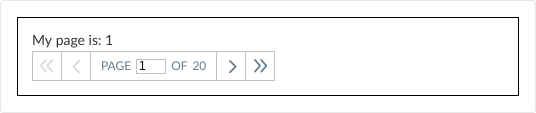
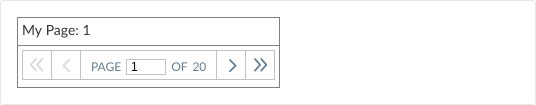
Feat/pagination updates (#145)
feat(PaginationControl): fixed API to submit page number on blur/enter rather than onChange per UX spec. Also cleaned up some other aspects, detailed below.

- updated CSS and markup to no longer use flexbox, making this component more flexible within a pagination tools set.

- refactored disabling of control by allowing for dynamic creation of atributes via the spread syntax. Before we were setting a disabled class, the disabled attribute, and tabIndex. Now one prop handles it all.

- simplified error handling

- handle unknown total pages. UI displays ellipses

Changed region(s): [[0.0299, 0.2286, 0.5373, 0.7714], [0.0299, 0.8286, 0.9851, 0.8571], [0.0299, 0.1429, 0.9851, 0.1714]]

diff --git a/src/components/native/PaginationControl/PaginationControl.jsx b/src/components/native/PaginationControl/PaginationControl.jsx
@@ -1,17 +1,18 @@
 import PropTypes from 'prop-types'
 import React from 'react'
-import Flexbox from 'flexbox-react'
 import '../../../styles/components/pagination-control.css'
 import isNil from 'lodash/isNil'
+import isNumber from 'lodash/isNumber'
 import invariant from 'invariant'
 
 const NAV_VERB_TO_INT_MAP = { prev: -1, next: 1 }
+const DISABLED_ATTRIBUTES = { tabIndex: -1, disabled: true }
+const ENABLED_ATTRIBUTE = { tabIndex: 0 }
 
 export default class PaginationControl extends React.PureComponent {
   constructor (props) {
     super(props)
-    invariant(props.onBlur, '`onBlur` prop missing')
-    invariant(props.onChange, '`onChange` prop missing')
+    invariant(props.onPageChange, '`onPageChange` prop missing')
     invariant(props.page, '`page` prop missing')
     this.gotoFirstPage = this.gotoFirstPage.bind(this)
     this.gotoPrevPage = this.gotoPrevPage.bind(this)
@@ -22,8 +23,7 @@ export default class PaginationControl extends React.PureComponent {
     this.isValidPage = this.isValidPage.bind(this)
     this.isDisabled = this.isDisabled.bind(this)
     this.handleInputKeyDown = this.handleInputKeyDown.bind(this)
-    this.onChange = this.onChange.bind(this)
-    this.onBlur = this.onBlur.bind(this)
+    this.handleUserInput = this.handleUserInput.bind(this)
   }
 
   gotoFirstPage () {
@@ -46,9 +46,15 @@ export default class PaginationControl extends React.PureComponent {
   }
 
   gotoPage (page) {
-    if (this.isValidPage(page)) {
-      this.props.onChange(page)
+    let payload = {page: page}
+    if (!isNumber(page)) {
+      payload.error = 'Invalid Number'
+    } else if (!this.isPageWithinLowerBound(page)) {
+      payload.error = 'Number less than lower bound'
+    } else if (!this.isPageWithinUpperBound(page)) {
+      payload.error = 'Number greater than upper bound'
     }
+    this.props.onPageChange(payload)
   }
 
   isPageWithinLowerBound (page) {
@@ -59,6 +65,7 @@ export default class PaginationControl extends React.PureComponent {
   isPageWithinUpperBound (page) {
     const { totalPages } = this.props
     if (isNil(totalPages)) return true
+
     return page <= totalPages
   }
 
@@ -67,69 +74,72 @@ export default class PaginationControl extends React.PureComponent {
   }
 
   isDisabled (btnType) {
-    const { disabled, page } = this.props
-    const disabledClass = 'pagination_disabled'
+    const { disabled, page, totalPages } = this.props
 
     if (disabled) {
-      return disabledClass
-    } else if (btnType) {
-      const linkedPage = page + NAV_VERB_TO_INT_MAP[btnType]
+      return DISABLED_ATTRIBUTES
+    }
+
+    if (btnType) {
+      if (btnType === 'last' && isNil(totalPages)) {
+        return DISABLED_ATTRIBUTES
+      }
+
+      const linkedPage = page + (NAV_VERB_TO_INT_MAP[btnType] || 1)
       const invalidPage = !this.isValidPage(linkedPage)
       if (invalidPage) {
-        return disabledClass
+        return DISABLED_ATTRIBUTES
       }
     }
-    return ''
+
+    return ENABLED_ATTRIBUTE
   }
 
-  onBlur (evt) {
-    const { onBlur } = this.props
-    if (!onBlur) return
-    onBlur(evt.target.value === '' ? null : parseInt(evt.target.value, 10))
-  }
-
-  onChange (evt) {
-    this.props.onChange(evt.target.value === '' ? null : parseInt(evt.target.value, 10))
+  handleUserInput (evt) {
+    this.gotoPage(parseInt(evt.target.value, 10))
   }
 
   handleInputKeyDown (evt) {
     const ENTER = 13
     if (evt.keyCode === ENTER) {
-      this.onChange(evt)
+      this.handleUserInput(evt)
     }
   }
 
   render () {
-    const { page, disabled, totalPages } = this.props
-    const isPrevDisabled = this.isDisabled('prev')
-    const isNextDisabled = this.isDisabled('next')
+    const { page, totalPages } = this.props
+    const isDisabled = this.isDisabled
+
     return (
-      <Flexbox flexDirection='row' className='pagination'>
-        <button className={`pagination__button pagination__prev ${isPrevDisabled}`}
-          onClick={this.gotoFirstPage} tabIndex={`${isPrevDisabled ? -1 : 0}`}>
+      <div className='pagination'>
+        <button className={`pagination__button pagination__prev`}
+          onClick={this.gotoFirstPage} {...isDisabled('prev')} >
           <i className='arrow_carrot-2left' aria-hidden='true' />
         </button>
-        <button className={`pagination__button pagination__prev ${isPrevDisabled}`}
-          onClick={this.gotoPrevPage} tabIndex={`${isPrevDisabled ? -1 : 0}`}>
+        <button className={`pagination__button pagination__prev`}
+          onClick={this.gotoPrevPage} {...isDisabled('prev')} >
           <i className='arrow_carrot-left' aria-hidden='true' />
         </button>
-        <Flexbox className={`pagination__page-number ${this.isDisabled()}`} alignItems='center'>
+        <div className={`pagination__page-number`} >
           <span>Page</span>
-          <input className={`pagination__input ${this.isDisabled()}`}
-            type='text' value={`${page || ''}`} disabled={disabled}
-            onChange={this.onChange} onBlur={this.onBlur} onKeyDown={this.handleInputKeyDown} tabIndex={`${this.isDisabled() ? -1 : 0}`} />
-          <span> of</span>
-          <span className='pagination__page-total'>{totalPages || '∞'}</span>
-        </Flexbox>
-        <button className={`pagination__button pagination__next ${isNextDisabled}`}
-          onClick={this.gotoNextPage} tabIndex={`${isNextDisabled ? -1 : 0}`}>
+          <input className={`pagination__input`} type='number' min='1' max={totalPages}
+            key={`${page}`} defaultValue={`${page}`}
+            onBlur={this.handleUserInput} onKeyDown={this.handleInputKeyDown} {...isDisabled()} />
+          <span>of</span>
+          <span className='pagination__page-total'>
+            {totalPages || <em className='pagination__page-number_total-pages-unknown'>...</em>}
+
+          </span>
+        </div>
+        <button className={`pagination__button pagination__next`}
+          onClick={this.gotoNextPage} {...isDisabled('next')} >
           <i className='arrow_carrot-right' aria-hidden='true' />
         </button>
-        <button className={`pagination__button pagination__next ${isNextDisabled}`}
-          onClick={this.gotoLastPage} tabIndex={`${isNextDisabled ? -1 : 0}`}>
+        <button className={`pagination__button pagination__next`}
+          onClick={this.gotoLastPage} {...isDisabled('last')} >
           <i className='arrow_carrot-2right' aria-hidden='true' />
         </button>
-      </Flexbox>
+      </div>
     )
   }
 }
@@ -140,12 +150,11 @@ PaginationControl.propTypes = {
    * Called when the control is blurred.
    * @param {Number} page target page number
    */
-  onBlur: PropTypes.func.isRequired,
-  /**
+  onPageChange: PropTypes.func.isRequired,
+   /**
    * Called when the page changes.
    * @param {Number} page target page number
    */
-  onChange: PropTypes.func.isRequired,
   page: PropTypes.number,
   totalPages: PropTypes.number
 }

diff --git a/src/styles/components/pagination-control.css b/src/styles/components/pagination-control.css
@@ -3,29 +3,42 @@
 :root {
   /* this color may change once colors are finalized. Not part of Yung's UXPin*/
   --mainPaginationColor: #657d8e;
+  --mainPaginationBorderColor: var(--silverGray);
+  --disabledColor: var(--gainsboroGray);
+  --paginationBackgroundColor: white;
+  --paginationHeight: 30px;
+  --paginationSpaceBetweenWords: 5px;
+}
+
+/* For Firefox */
+input[type='number'],
+input[type=number]::-webkit-inner-spin-button,
+input[type=number]::-webkit-outer-spin-button {
+  -webkit-appearance: none;
+  -moz-appearance:textfield;
 }
 
 .pagination {
+  display: inline-block;
+  height: var(--paginationHeight);
   color: var(--mainPaginationColor);
+  margin: 0 4px;
+  background-color: var(--paginationBackgroundColor);
 }
 
 .pagination__button {
-  border: 1px solid var(--silverGray);
+  border: 1px solid var(--mainPaginationBorderColor);
   color: var(--mainPaginationColor);
+  background-color: var(--paginationBackgroundColor);
   cursor: pointer;
   display: inline-block;
   padding: 0px;
   font-size: 28px;
-  height: 30px;
-  background-color: white;
-  -webkit-user-select: none;
-  -moz-user-select: none;
-  -ms-user-select: none;
-  user-select: none;
+  max-height: var(--paginationHeight);
 }
 
 .pagination__button:hover{
-  color: white;
+  color: var(--paginationBackgroundColor);
   background-color: var(--primaryBlue);
 }
 
@@ -41,46 +54,49 @@
   border-left: 0;
 }
 
-.pagination__input {
-  border: 1px solid #bdc3c7;
-  width: 30px;
-  padding: 0 2px;
-}
-
 .pagination__page-number {
-  border: 1px solid var(--silverGray);
+  border: 1px solid var(--mainPaginationBorderColor);
   color: var(--mainPaginationColor);
   font-size: var(--small);
-  padding-left: 10px;
-  padding-right: 10px;
-  height: 30px;
+  padding: 0 10px;
+  line-height: var(--paginationHeight);
   text-transform: uppercase;
   text-align: center;
-  -webkit-user-select: none;
-  -moz-user-select: none;
-  -ms-user-select: none;
-  user-select: none;
   cursor: default;
+  display: inline-block;
+  vertical-align: top;
+  height: var(--paginationHeight);
+  max-height: var(--paginationHeight);
+}
+
+.pagination__page-number * {
+  vertical-align: middle;
+}
+
+.pagination__page-number_total-pages-unknown {
+  font-size: 20px;
+  line-height: calc(var(--paginationHeight)/2);
+  vertical-align: baseline;
 }
 
 .pagination__input {
-  margin: 0 5px;
+  border: 1px solid var(--mainPaginationBorderColor);
+  width: 40px;
+  height: 16px;
+  margin: 7px var(--paginationSpaceBetweenWords);
+  padding: 1px 4px;
 }
 
 .pagination__page-total {
-  margin-left: 5px;
+  margin-left: var(--paginationSpaceBetweenWords);
+  line-height: var(--paginationHeight);
 }
 
-.pagination_disabled,
-.pagination_disabled:hover {
-  color: var(--gainsboroGray);
+.pagination :disabled,
+.pagination :disabled:hover {
+  color: var(--disabledColor);
   cursor: not-allowed;
-  background-color: white;
-}
-
-.pagination__page-number.pagination_disabled,
-.pagination__page-number .pagination_disabled {
-  color: var(--mainPaginationColor);
+  background-color: var(--paginationBackgroundColor);
 }
 
 .pagination_disabled:focus {

diff --git a/src/components/native/PaginationControl/PaginationControl.examples.md b/src/components/native/PaginationControl/PaginationControl.examples.md
@@ -2,27 +2,56 @@
 
 ```js
 initialState = { page: 1 }
-;<PaginationControl page={state.page} onChange={page => setState({ page })}
-  onBlur={() => null} />
+;<PaginationControl
+	page={state.page}
+	totalPages={10}
+	onPageChange={obj => setState({ page: obj.page })}
+/>
 ```
 
 #### Disabled Pagination
 
 ```js
 initialState = { page: 2 }
-;<PaginationControl page={state.page} onChange={page => setState({ page })}
-  onBlur={() => null} disabled />
+;<PaginationControl
+  page={state.page}
+  totalPages={2}
+  onPageChange={() => null}
+  disabled
+/>
+```
+
+#### Pagination with unknown Total Number of Pages
+
+```js
+initialState = { page: 1 }
+;<PaginationControl
+  page={state.page}
+  onPageChange={obj => setState({ page: obj.page })}
+/>
 ```
 
 #### Enabled Pagination within Container
 
 ```js
 initialState = { page: 1 }
-;<section style={{border: '1px solid black', padding: '1em'}}>
-  <div>My page is: {state.page}</div>
-  <PaginationControl page={state.page} totalPages={20}
-    onBlur={page => { setState({ page: page || 1}) }}
-    onChange={page => { setState({ page }) }}
-  />
+;<section style={{border: '1px solid gray', padding: '0', display: 'inline-block'}}>
+  <div style={{padding: '4px', borderBottom: '1px solid gray'}}>
+    <p>My Page: {state.page}</p>
+  </div>
+  <div style={{padding: '4px 0'}}>
+    <PaginationControl
+      page={state.page}
+      totalPages={20}
+      onPageChange={obj => {
+        if (obj.error) {
+          console.error(obj.error)
+        } else {
+          setState({ page: obj.page}) 
+        }
+      }}
+    />
+  </div>
+
 </section>
 ```
